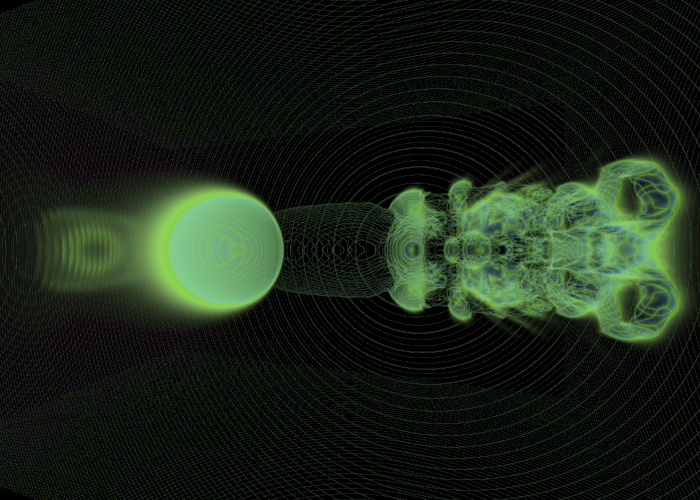
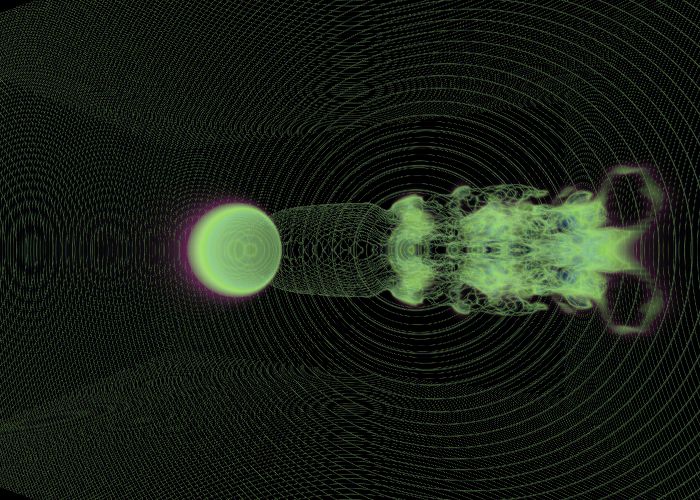
kd-tree structure change

diff --git a/include/Construct.h b/include/Construct.h
@@ -6,23 +6,24 @@
 #define CG_PROJECT_2022_FALL_CONSTRUCT_H
 
 #include "common.h"
-#include <vector>
-
+#include "Brick.h"
 class KdTreeNode {
 public:
-//    explicit KdTreeNode(std::vector<std::shared_ptr<Cell>> cells, openvdb::CoordBBox bbox, int depth);
-    explicit KdTreeNode(openvdb::CoordBBox bbox,float max_dx, int depth);
+    ///Is depth necessary?
+    KdTreeNode(Grids_data& gridsData,wBBox bbox, int depth);
     ~KdTreeNode();
 //    bool intersect(Interaction &interaction, const Ray &ray) const;
     [[nodiscard]] bool isLeaf() const { return !leftChild && !rightChild; }
 
 private:
-    KdTreeNode *leftChild, *rightChild;
 //    openvdb::CoordBBox bbox;
 //    std::vector<std::shared_ptr<Cell>> cells;
+    KdTreeNode *leftChild, *rightChild;
     int partition_axis;
-    float partition_poi;
+    double partition_poi;
     std::vector<int> contribute_grids;
+
+//    std::shared_ptr<Brick> brick;
 };
 
 KdTreeNode::~KdTreeNode() {
@@ -37,11 +38,26 @@ KdTreeNode::~KdTreeNode() {
 }
 
 
+class Kdtree{
+public:
+    ///Notice: grids may have overlap!
+    ///For a point in the world, find its contribute grids, then do the interpolation....
+    Kdtree(Grids_data& gridsData);
 
+    std::vector<int> grid_contribute(const Vec3f &xyz)const;
+//    float Get_value(const Coord& ijk) const;
+//    void setValue(const Coord& xyz, double value);
+//    bool isValueOn(const Coord& xyz) const;
 
+//    [[nodiscard]] Vec3f indexToWorld(const Vec3f& xyz) const;
+//    [[nodiscard]] Vec3f indexToWorld(const Coord& ijk) const;
+//    [[nodiscard]] Vec3f worldToIndex(const Vec3f& xyz) const;
 
-
-
-
+//    float indexInterpolation(const Vec3f& xyz);
+//    float worldInterpolation(const Vec3f& xyz);
+private:
+    KdTreeNode root;
+    float dx;
+};
 
 #endif //CG_PROJECT_2022_FALL_CONSTRUCT_H

diff --git a/src/integrator.cpp b/src/integrator.cpp
@@ -67,7 +67,7 @@ float Integrator::opacity_correction(float step, float opacity){
 
 Vec3f Integrator::color_transfer(float val) const {
     ///TODO
-    float v=val/0.004;
+    float v=val/0.006;
     float r= fmod(v,1.0);
     float g= fmod(v+0.4,1.0);
     float b= fmod(v+0.8,1.0);
@@ -76,15 +76,29 @@ Vec3f Integrator::color_transfer(float val) const {
 
 float Integrator::interpolation(Vec3f pos) const {
     ///TODO
+//    pos={0.0,0.0,0.05};
     FloatGrid::ConstAccessor accessor=grid->getConstAccessor();
     openvdb::tools::GridSampler<FloatGrid::ConstAccessor ,openvdb::tools::BoxSampler> sampler(accessor,grid->transform());
 //    cout<<pos<<grid->transform().worldToIndex(pos)<<endl;
+//    cout<<grid->getAccessor().getValue({0, 0, 0})<<" "<<
+//        grid->getAccessor().getValue({1, 0, 0})<<" "<<
+//        grid->getAccessor().getValue({0, 1, 0})<<" "<<
+//        grid->getAccessor().getValue({0, 0, 1})<<" "<<
+//        grid->getAccessor().getValue({1, 1, 0})<<" "<<
+//        grid->getAccessor().getValue({1, 0, 1})<<" "<<
+//        grid->getAccessor().getValue({0, 1, 1})<<" "<<
+//        grid->getAccessor().getValue({1, 1, 1})<<endl;
+//    cout<<sampler.wsSample(pos)<<endl;
     return sampler.wsSample(pos);
+//    openvdb::tools::GridSampler<FloatGrid , openvdb::tools::BoxSampler> sampler(grid->tree(),grid->transform());
+//    auto world_value=sampler.wsSample(pos);
+//    return world_value;
 }
 
 ///For single-res
 Vec3f Integrator::front_to_back(Ray& ray, float step) const {
     ray.direction.normalize();
+//    cout<<ray.direction<<endl;
     Vec3f result{0,0,0};
     float T=1;
     auto temp_pos=ray.origin;

diff --git a/src/common.cpp b/src/common.cpp
@@ -2,11 +2,11 @@
 // Created by Renhui on 2023/1/2.
 //
 #include "common.h"
-Vec3f Grid_world_pos(openvdb::GridBase::Ptr grid, Coord coord){
-    auto O=grid->metaValue<openvdb::Vec3d>("origin");
-    auto dx=grid->metaValue<double>("dx");
-    return O+dx*coord.asVec3i();
-}
+//Vec3f Grid_world_pos(openvdb::GridBase::Ptr grid, Coord coord){
+//    auto O=grid->metaValue<openvdb::Vec3d>("origin");
+//    auto dx=grid->metaValue<double>("dx");
+//    return O+dx*coord.asVec3i();
+//}
 
 std::string GetFilePath(const std::string& target, int depth/* = 5*/) {
     std::string path = target;
@@ -20,4 +20,16 @@ std::string GetFilePath(const std::string& target, int depth/* = 5*/) {
     }
     std::cerr << "GetFilePath(): Failed to get file: " + target << std::endl;
     abort();
+}
+
+void Grids_data::addGrid(const FloatGrid::Ptr& grid) {
+    grids.push_back(grid);
+    auto dx_temp=grid->metaValue<double>("dx");
+//    auto O=grid->metaValue<openvdb::Vec3d>("origin");
+    dx.push_back(dx_temp);
+    if(dx_temp<min_dx) min_dx=dx_temp;
+    if(dx_temp>max_dx) max_dx=dx_temp;
+    auto ibbox=grid->evalActiveVoxelBoundingBox();
+    wbbox.expand(grid->indexToWorld(ibbox.min()));
+    wbbox.expand(grid->indexToWorld(ibbox.max()));
 }

diff --git a/include/common.h b/include/common.h
@@ -31,6 +31,8 @@ using Vec2i=openvdb::Vec2i;
 using Mat4f=openvdb::Mat4s;
 using Mat3f=openvdb::Mat3s;
 using Coord=openvdb::Coord;
+using iBBox=openvdb::CoordBBox;
+using wBBox=openvdb::BBoxd;
 using Vec3sGrid=openvdb::v10_0::Vec3SGrid;
 using FloatGrid=openvdb::v10_0::FloatGrid;
 
@@ -63,7 +65,18 @@ using gMat4 = glm::mat<4, 4, Float, glm::defaultp>;
 
 
 //template<typename GridType>
-Vec3f Grid_world_pos(openvdb::GridBase::Ptr grid, Coord coord);
+
+//Vec3f Grid_world_pos(openvdb::GridBase::Ptr grid, Coord coord);
 std::string GetFilePath(const std::string& target, int depth = 5);
+
+struct Grids_data{
+    void addGrid(const FloatGrid::Ptr& grid);
+    std::vector<FloatGrid::Ptr> grids;
+    std::vector<double> dx;
+    double max_dx=std::numeric_limits<double>::min();
+    double min_dx=std::numeric_limits<double>::max();
+//    Vec3f origin=Vec3f{std::numeric_limits<float>::max(),std::numeric_limits<float>::max(),std::numeric_limits<float>::max()};
+    wBBox wbbox;
+};
 //Mat4f Mat4g2v(glm::)
 #endif //CG_PROJECT_2022_FALL_COMMON_H

diff --git a/src/VDBLoader.cpp b/src/VDBLoader.cpp
@@ -60,8 +60,7 @@ VDBLoader<GridType>::VDBLoader(std::string filename) : filename(filename){
             floatgrid->insertMeta(name,*value);
         }
         floatgrid->setTransform(grid->transformPtr());
-        grids.push_back(floatgrid);
-        dx.push_back(grid->metaValue<double>("dx"));
+        grids.addGrid(floatgrid);
     }
 //    openvdb::io::File floatfile("../test.vdb");
 //    floatfile.write(grids);
@@ -82,9 +81,11 @@ VDBLoader<GridType>::~VDBLoader() {
     }
 }
 
-template<typename GridType>
-void VDBLoader<GridType>::SortBydx() {
-    std::sort(grids.begin(),grids.end(),[](auto &agrid,auto &bgrid){
-        return agrid->metaValue<double>("dx")< bgrid->metaValue<double>("dx");
-    });
-}
+//template<typename GridType>
+//void VDBLoader<GridType>::SortBydx() {
+//    std::sort(grids.begin(),grids.end(),[](auto &agrid,auto &bgrid){
+//        return agrid->metaValue<double>("dx")< bgrid->metaValue<double>("dx");
+//    });
+//}
+
+

diff --git a/src/Construct.cpp b/src/Construct.cpp
@@ -4,13 +4,26 @@
 
 #include "Construct.h"
 
-KdTreeNode::KdTreeNode(openvdb::CoordBBox bbox,float max_dx, int depth) {
-
-
+KdTreeNode::KdTreeNode(Grids_data& gridsData,wBBox bbox, int depth) {
+    ///For construct: find the longest axis by bbox, find a pos to create two children
+    ///For leaf: create a brick, store cells
+    ///Can depth has some effect?
     partition_axis=bbox.maxExtent();
-    partition_poi = int((bbox.max()[partition_axis]-bbox.min()[partition_axis]) / max_dx / 2 + 0.5) * max_dx;
+//    partition_poi = int((bbox.max()[partition_axis]-bbox.min()[partition_axis]) / max_dx / 2 + 0.5) * max_dx;
 
 
 //    leftChild=new KdTreeNode(bbox.par)
 
 }
+
+//Vec3f Kdtree::worldToIndex(const Vec3f &xyz) const {
+//    return xyz/dx;
+//}
+//
+//Vec3f Kdtree::indexToWorld(const Vec3f &xyz) const {
+//    return xyz*dx;
+//}
+//
+//Vec3f Kdtree::indexToWorld(const Coord &ijk) const {
+//    return ijk.asVec3d()*dx;
+//}

diff --git a/src/main.cpp b/src/main.cpp
@@ -61,10 +61,11 @@ int main(int argc, char *argv[]) {
     VDBLoader<Vec3sGrid> loader(GetFilePath(config.file_path));
 #ifndef TEST
     // init integrator
-    auto single_grid=loader.grids[0];
-    auto dim=single_grid->evalActiveVoxelBoundingBox().dim();
+    auto single_grid=loader.grids.grids[0];
+    auto length=(loader.grids.wbbox.max()-loader.grids.wbbox.min())[loader.grids.wbbox.maxExtent()];
+//    auto dim=single_grid->evalActiveVoxelBoundingBox().dim();
     std::unique_ptr<Integrator> integrator
-            = std::make_unique<Integrator>(camera, scene, config.spp, single_grid,dim[dim.maxIndex()]*loader.dx[0]+2,config.iso_value,config.var);
+            = std::make_unique<Integrator>(camera, scene, config.spp, single_grid,length+2,config.iso_value,config.var);
     std::cout << "Start Rendering..." << std::endl;
     auto start = std::chrono::steady_clock::now();
     // render scene

diff --git a/include/Brick.h b/include/Brick.h
@@ -2,16 +2,21 @@
 // Created by Renhui on 2022/12/31.
 //
 #include "common.h"
-
+#include "Cell.h"
 #ifndef CG_PROJECT_2022_FALL_BRICK_H
 #define CG_PROJECT_2022_FALL_BRICK_H
 
 class Brick {
 public:
-    Brick(Vec3f p, int l, Vec3i c):poi(p),level(l),cell_num(c){}
+    ///may need modify?
+    Brick(Coord coord, int l, Vec3i dim, Grids_data& gridsData, wBBox bbox);
+    bool Get_value(Coord coord, double& result);//first test whether is in
+    [[nodiscard]] Vec3i Get_dim() const {return cell_dim;}
+    [[nodiscard]] int Get_level() const{return level;}
 private:
-    Vec3f poi; //lower-left corner i,j,k
+    Coord coord; //lower-left corner coord
     int level;
-    Vec3i cell_num;
+    Vec3i cell_dim;
+    std::vector<Cell> cells;
 };
 #endif //CG_PROJECT_2022_FALL_BRICK_H

diff --git a/include/Cell.h b/include/Cell.h
@@ -5,22 +5,17 @@
 #ifndef CG_PROJECT_2022_FALL_CELL_H
 #define CG_PROJECT_2022_FALL_CELL_H
 
-//float MIN_DX;
-//openvdb::Vec3f WORLD_ORIGIN;
 class Cell{
 public:
     Cell(){}
     ~Cell(){}
-    Cell(openvdb::Coord p_idx, uint32_t l,float value):coord(p_idx),level(l),value(value){}
-    Cell(int i, int j, int k , uint32_t l,float v): Cell(openvdb::Coord(i,j,k),l,v){}
-    void update_level(int l){
-        level=l;
-    }
+    Cell(openvdb::Coord p_idx, int l,float value):coord(p_idx),level(l),value(value){}
+    Cell(int i, int j, int k , int l,float v): Cell(openvdb::Coord(i,j,k),l,v){}
 
 private:
+    ///Does coord necessary?
     openvdb::Coord coord;
-    uint32_t level;
+    int level;
     float value;
-
 };
 #endif //CG_PROJECT_2022_FALL_CELL_H

diff --git a/include/VDBLoader.h b/include/VDBLoader.h
@@ -1,12 +1,11 @@
 #ifndef __VDB_VOLUME_LOADER_H__
 #define __VDB_VOLUME_LOADER_H__
 
-
-
 #include <memory>
 #include "common.h"
 //#include <openvdb/io/Stream.h>
 #include <algorithm>
+
 
 template<typename GridType>
 class VDBLoader {
@@ -21,14 +20,16 @@ public:
 
 //    std::vector<openvdb::GridBase::Ptr> grids_base;
 //    std::vector<typename GridType::Ptr> grids;
-    std::vector<FloatGrid::Ptr> grids;
-    std::vector<double> dx;
+
+//    std::vector<FloatGrid::Ptr> grids;
+//    std::vector<double> dx;
+    Grids_data grids;
     openvdb::io::File *file;
     std::vector<std::string> gridNames;
     std::string filename;
 
     std::string getGridType(openvdb::GridBase::Ptr grid);
-    void SortBydx();
+//    void SortBydx();
 
 private:
 };
